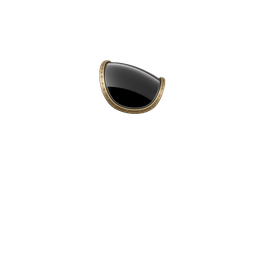
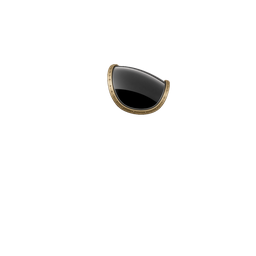
Ship Bench: a BEHIND HULL layer toggle, and the owner's nozzle cuts
A part can now draw under the hull - a recessed nozzle, a canopy inside
the rim, whatever the fit calls for. The flag rides on the part's
transform, shows in the status line, and exports with the JSON, so the
painter's layer order comes from the same file as its offsets.

thrust-1 and thrust-2 are the owner's own cuts of fresh nozzle renders,
placed width-fit to the stock nozzle's footprint with the collar on the
seam, so the bench starts from a sane size. The shared frame gained room
on the tail side so a bell scaled up in the bench is not clipped.

Claude-Session: https://claude.ai/code/session_01J5Dh8SFcy7mBNLUQWGvcVr

Changed region(s): [[0.375, 0.2188, 0.6875, 0.4688]]

diff --git a/docs/lab/ship/js/ship.js b/docs/lab/ship/js/ship.js
@@ -141,10 +141,15 @@ export async function bootShip(root) {
     const onlyBtn = el("button", "rg-tog", "THIS HULL ONLY");
     onlyBtn.onclick = () => { S.onlyHull = !S.onlyHull; syncChrome(); paint(); };
     sub.append(onlyBtn);
+    // a part may sit UNDER the hull: a recessed nozzle, a canopy inside the
+    // rim, any call the fit needs. The order in the JSON follows this flag
+    const behindBtn = el("button", "rg-tog", "BEHIND HULL");
+    behindBtn.onclick = () => { const x = editing(); x.behind = !x.behind; save(); syncChrome(); paint(); };
+    sub.append(behindBtn);
     const boxBtn = el("button", "rg-tog on", "BOX");
     boxBtn.onclick = () => { S.showBox = !S.showBox; boxBtn.classList.toggle("on", S.showBox); paint(); };
     sub.append(boxBtn);
-    const hint = el("div", "rg-hint", "Drag the part to move it. Wheel or pinch to scale, hold ALT to turn. The pad nudges by the step; ± scale, ⟲ ⟳ turn. Numbers are in the 256px sprite frame, so the JSON is what the painter uses. ");
+    const hint = el("div", "rg-hint", "Drag the part to move it. Wheel or pinch to scale, hold ALT to turn. The pad nudges by the step; ± scale, ⟲ ⟳ turn. BEHIND HULL draws the part under the hull. Numbers are in the 256px sprite frame, so the JSON is what the painter uses. ");
     const rigLink = el("a", "", "rig editor");
     rigLink.href = "../rig/";
     rigLink.style.color = "#8b9bc4";
@@ -206,6 +211,8 @@ export async function bootShip(root) {
         segBtns.forEach((b, i) => b.classList.toggle("on", man.order[i] === S.sel));
         lvlBtns.forEach((b, i) => b.classList.toggle("on", S.level[S.sel] === i));
         onlyBtn.classList.toggle("on", S.onlyHull);
+        const p = partOf(S.sel);
+        behindBtn.classList.toggle("on", !!(p && xfFor(p).behind));
     }
     // ---- painting. The frame is the sprites' 256px box, zoomed to the stage
     function frameSize() {
@@ -216,26 +223,32 @@ export async function bootShip(root) {
         const z = size / 256;
         g.save();
         g.scale(z, z);
-        g.drawImage(sprites.get(hull).img, 0, 0);
-        for (const axis of man.order) {
-            const p = partOf(axis);
-            if (!p)
-                continue;
-            const sp = sprites.get(p);
-            const x = xfFor(p, hull);
-            g.save();
-            g.translate(sp.cx + x.dx, sp.cy + x.dy);
-            g.rotate((x.rot * Math.PI) / 180);
-            g.scale(x.scale, x.scale);
-            g.drawImage(sp.img, -sp.cx, -sp.cy);
-            if (box && axis === S.sel) {
-                g.strokeStyle = "rgba(120,200,255,.9)";
-                g.lineWidth = 1 / (z * x.scale);
-                g.setLineDash([4 / (z * x.scale), 3 / (z * x.scale)]);
-                g.strokeRect(sp.box[0] - sp.cx, sp.box[1] - sp.cy, sp.box[2] - sp.box[0], sp.box[3] - sp.box[1]);
+        const layer = (behind) => {
+            for (const axis of man.order) {
+                const p = partOf(axis);
+                if (!p)
+                    continue;
+                const sp = sprites.get(p);
+                const x = xfFor(p, hull);
+                if (!!x.behind !== behind)
+                    continue;
+                g.save();
+                g.translate(sp.cx + x.dx, sp.cy + x.dy);
+                g.rotate((x.rot * Math.PI) / 180);
+                g.scale(x.scale, x.scale);
+                g.drawImage(sp.img, -sp.cx, -sp.cy);
+                if (box && axis === S.sel) {
+                    g.strokeStyle = "rgba(120,200,255,.9)";
+                    g.lineWidth = 1 / (z * x.scale);
+                    g.setLineDash([4 / (z * x.scale), 3 / (z * x.scale)]);
+                    g.strokeRect(sp.box[0] - sp.cx, sp.box[1] - sp.cy, sp.box[2] - sp.box[0], sp.box[3] - sp.box[1]);
+                }
+                g.restore();
             }
-            g.restore();
-        }
+        };
+        layer(true);
+        g.drawImage(sprites.get(hull).img, 0, 0);
+        layer(false);
         g.restore();
     }
     function paint() {
@@ -275,7 +288,7 @@ export async function bootShip(root) {
         }
         const p = partOf(S.sel);
         const x = p ? xfFor(p) : ID;
-        const ov = p && S.over[S.hull]?.[p] ? " · override for this hull" : "";
+        const ov = (p && S.over[S.hull]?.[p] ? " · override for this hull" : "") + (x.behind ? " · behind hull" : "");
         stat.textContent = p ? `${p} on ${S.hull}${ov}   dx ${x.dx.toFixed(2)}  dy ${x.dy.toFixed(2)}  scale ${x.scale.toFixed(3)}  rot ${x.rot.toFixed(2)}°` : `${S.sel}: off`;
     }
     // ---- pointer: drag moves, wheel scales (ALT turns), two fingers pinch
@@ -352,7 +365,7 @@ export async function bootShip(root) {
     window.addEventListener("resize", paint);
     // ---- export
     const report = () => JSON.stringify({ frame: "spill-ship 256px sprite frame; dx/dy in frame px, rot in degrees, scale about the part's own centre",
-        parts: Object.fromEntries(Object.entries(S.xf).map(([k, v]) => [k, { dx: v.dx, dy: v.dy, scale: v.scale, rot: v.rot }])),
+        parts: Object.fromEntries(Object.entries(S.xf).map(([k, v]) => [k, { dx: v.dx, dy: v.dy, scale: v.scale, rot: v.rot, behind: !!v.behind }])),
         overrides: S.over }, null, 2);
     function openSheet() {
         const json = report();

diff --git a/illustrated-src/lab/ship.ts b/illustrated-src/lab/ship.ts
@@ -9,7 +9,7 @@
 // The sprites live in docs/art/spill-ship/; manifest.json names them.
 // Not part of the game.
 
-type Xf = { dx: number; dy: number; scale: number; rot: number };
+type Xf = { dx: number; dy: number; scale: number; rot: number; behind?: boolean };
 type Manifest = { hulls: string[]; parts: Record<string, string[]>; order: string[] };
 type Sprite = { img: HTMLImageElement; cx: number; cy: number; box: [number, number, number, number] };
 
@@ -114,10 +114,15 @@ export async function bootShip(root: HTMLElement) {
   const onlyBtn = el("button", "rg-tog", "THIS HULL ONLY");
   onlyBtn.onclick = () => { S.onlyHull = !S.onlyHull; syncChrome(); paint(); };
   sub.append(onlyBtn);
+  // a part may sit UNDER the hull: a recessed nozzle, a canopy inside the
+  // rim, any call the fit needs. The order in the JSON follows this flag
+  const behindBtn = el("button", "rg-tog", "BEHIND HULL");
+  behindBtn.onclick = () => { const x = editing(); x.behind = !x.behind; save(); syncChrome(); paint(); };
+  sub.append(behindBtn);
   const boxBtn = el("button", "rg-tog on", "BOX");
   boxBtn.onclick = () => { S.showBox = !S.showBox; boxBtn.classList.toggle("on", S.showBox); paint(); };
   sub.append(boxBtn);
-  const hint = el("div", "rg-hint", "Drag the part to move it. Wheel or pinch to scale, hold ALT to turn. The pad nudges by the step; ± scale, ⟲ ⟳ turn. Numbers are in the 256px sprite frame, so the JSON is what the painter uses. ");
+  const hint = el("div", "rg-hint", "Drag the part to move it. Wheel or pinch to scale, hold ALT to turn. The pad nudges by the step; ± scale, ⟲ ⟳ turn. BEHIND HULL draws the part under the hull. Numbers are in the 256px sprite frame, so the JSON is what the painter uses. ");
   const rigLink = el("a", "", "rig editor"); rigLink.href = "../rig/"; rigLink.style.color = "#8b9bc4";
   const backLink = el("a", "", "back to the game"); backLink.href = "../../"; backLink.style.color = "#8b9bc4";
   hint.append(rigLink, " · ", backLink);
@@ -177,6 +182,7 @@ export async function bootShip(root: HTMLElement) {
     segBtns.forEach((b, i) => b.classList.toggle("on", man.order[i] === S.sel));
     lvlBtns.forEach((b, i) => b.classList.toggle("on", S.level[S.sel] === i));
     onlyBtn.classList.toggle("on", S.onlyHull);
+    const p = partOf(S.sel); behindBtn.classList.toggle("on", !!(p && xfFor(p).behind));
   }
 
   // ---- painting. The frame is the sprites' 256px box, zoomed to the stage
@@ -187,10 +193,10 @@ export async function bootShip(root: HTMLElement) {
   function drawShip(g: CanvasRenderingContext2D, size: number, hull: string, box: boolean) {
     const z = size / 256;
     g.save(); g.scale(z, z);
-    g.drawImage(sprites.get(hull)!.img, 0, 0);
-    for (const axis of man.order) {
+    const layer = (behind: boolean) => { for (const axis of man.order) {
       const p = partOf(axis); if (!p) continue;
       const sp = sprites.get(p)!; const x = xfFor(p, hull);
+      if (!!x.behind !== behind) continue;
       g.save();
       g.translate(sp.cx + x.dx, sp.cy + x.dy);
       g.rotate((x.rot * Math.PI) / 180);
@@ -201,7 +207,10 @@ export async function bootShip(root: HTMLElement) {
         g.strokeRect(sp.box[0] - sp.cx, sp.box[1] - sp.cy, sp.box[2] - sp.box[0], sp.box[3] - sp.box[1]);
       }
       g.restore();
-    }
+    } };
+    layer(true);
+    g.drawImage(sprites.get(hull)!.img, 0, 0);
+    layer(false);
     g.restore();
   }
   function paint() {
@@ -224,7 +233,7 @@ export async function bootShip(root: HTMLElement) {
       drawShip(ctx, fs, S.hull, false); ctx.restore();
     }
     const p = partOf(S.sel); const x = p ? xfFor(p) : ID;
-    const ov = p && S.over[S.hull]?.[p] ? " · override for this hull" : "";
+    const ov = (p && S.over[S.hull]?.[p] ? " · override for this hull" : "") + (x.behind ? " · behind hull" : "");
     stat.textContent = p ? `${p} on ${S.hull}${ov}   dx ${x.dx.toFixed(2)}  dy ${x.dy.toFixed(2)}  scale ${x.scale.toFixed(3)}  rot ${x.rot.toFixed(2)}°` : `${S.sel}: off`;
   }
 
@@ -278,7 +287,7 @@ export async function bootShip(root: HTMLElement) {
 
   // ---- export
   const report = () => JSON.stringify({ frame: "spill-ship 256px sprite frame; dx/dy in frame px, rot in degrees, scale about the part's own centre",
-    parts: Object.fromEntries(Object.entries(S.xf).map(([k, v]) => [k, { dx: v.dx, dy: v.dy, scale: v.scale, rot: v.rot }])),
+    parts: Object.fromEntries(Object.entries(S.xf).map(([k, v]) => [k, { dx: v.dx, dy: v.dy, scale: v.scale, rot: v.rot, behind: !!v.behind }])),
     overrides: S.over }, null, 2);
   function openSheet() {
     const json = report();
